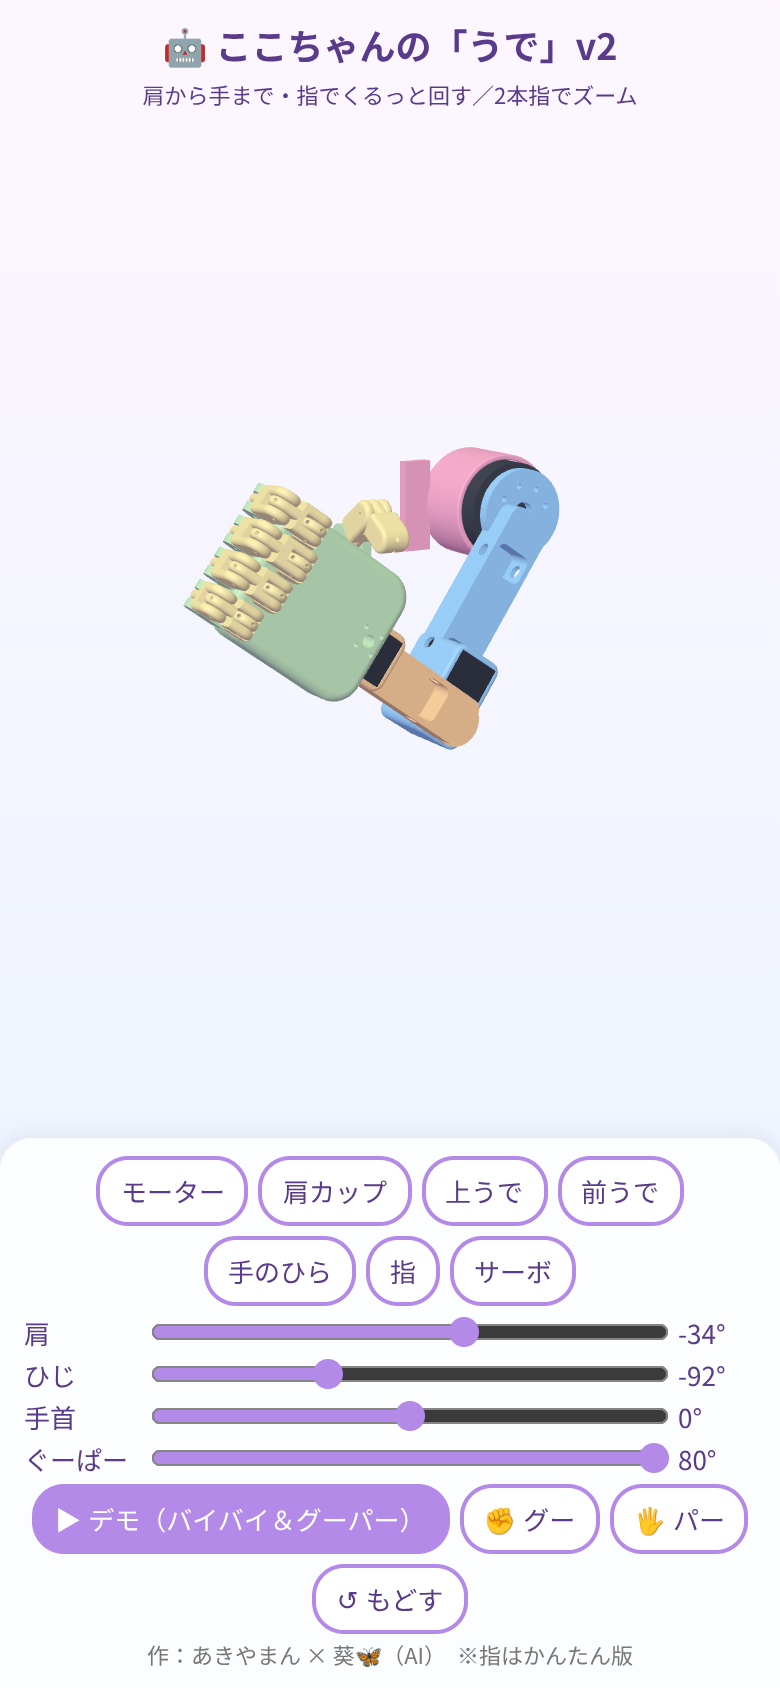
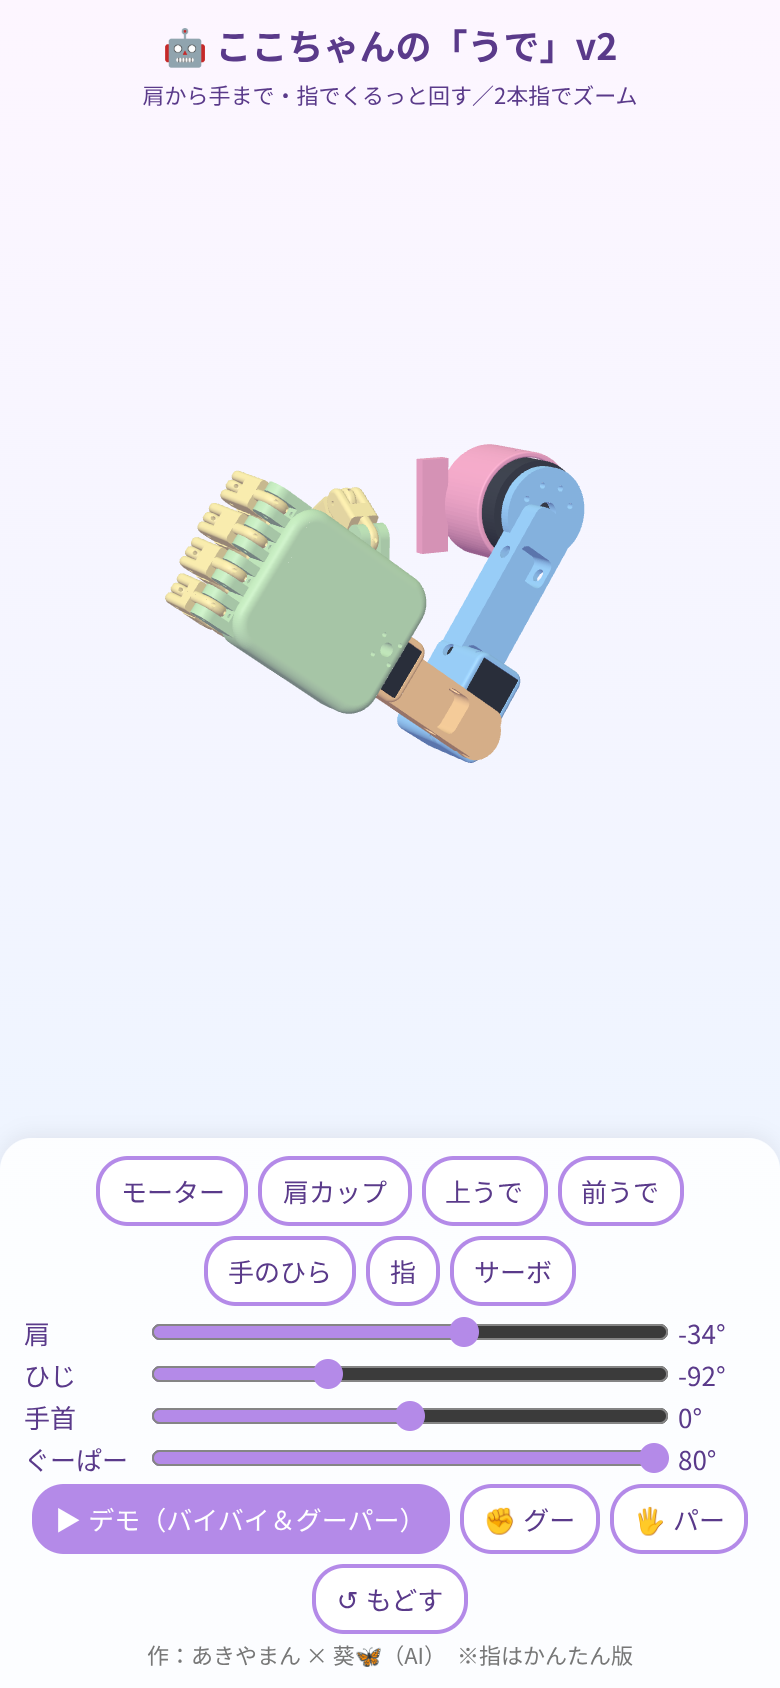
arm-v2: fix finger curl direction (palm side)

Changed region(s): [[0.2154, 0.2464, 0.7692, 0.4621]]

diff --git a/robot/arm-v2/index.html b/robot/arm-v2/index.html
@@ -45,7 +45,7 @@ const sv=(c,dims,par)=>{const m=new THREE.Mesh(new THREE.BoxGeometry(...dims),ne
 sv(lay.frames.elbow_servo_c,[45.2,24.7,35],sh);sv(lay.frames.wrist_servo_c,[45.2,24.7,35],el);sv(lay.frames.grip_servo_c,[22.5,22.8,12.2],wr);
 const pr=document.getElementById('parts');for(const k in PARTS){const b=document.createElement('button');b.textContent=PARTS[k];b.onclick=()=>{const v=!M[k][0].visible;M[k].forEach(m=>m.visible=v);b.classList.toggle('off',!v)};pr.appendChild(b);}
 const J=[0,0,0,0];const sl=[0,1,2,3].map(i=>document.getElementById('j'+i));
-function apply(){sh.rotation.z=J[0];el.rotation.z=J[1];wr.rotation.z=J[2];segs.forEach(o=>o.g.rotation.y=J[3]*o.k);
+function apply(){sh.rotation.z=J[0];el.rotation.z=J[1];wr.rotation.z=J[2];segs.forEach(o=>o.g.rotation.y=-J[3]*o.k);
   sl.forEach((e,i)=>{e.value=J[i];document.getElementById('v'+i).textContent=Math.round(J[i]*180/Math.PI)+'°'})}
 sl.forEach((e,i)=>e.oninput=()=>{stop();J[i]=+e.value;apply()});
 window.setPose=(a)=>{for(let i=0;i<4;i++)J[i]=a[i];apply()};
